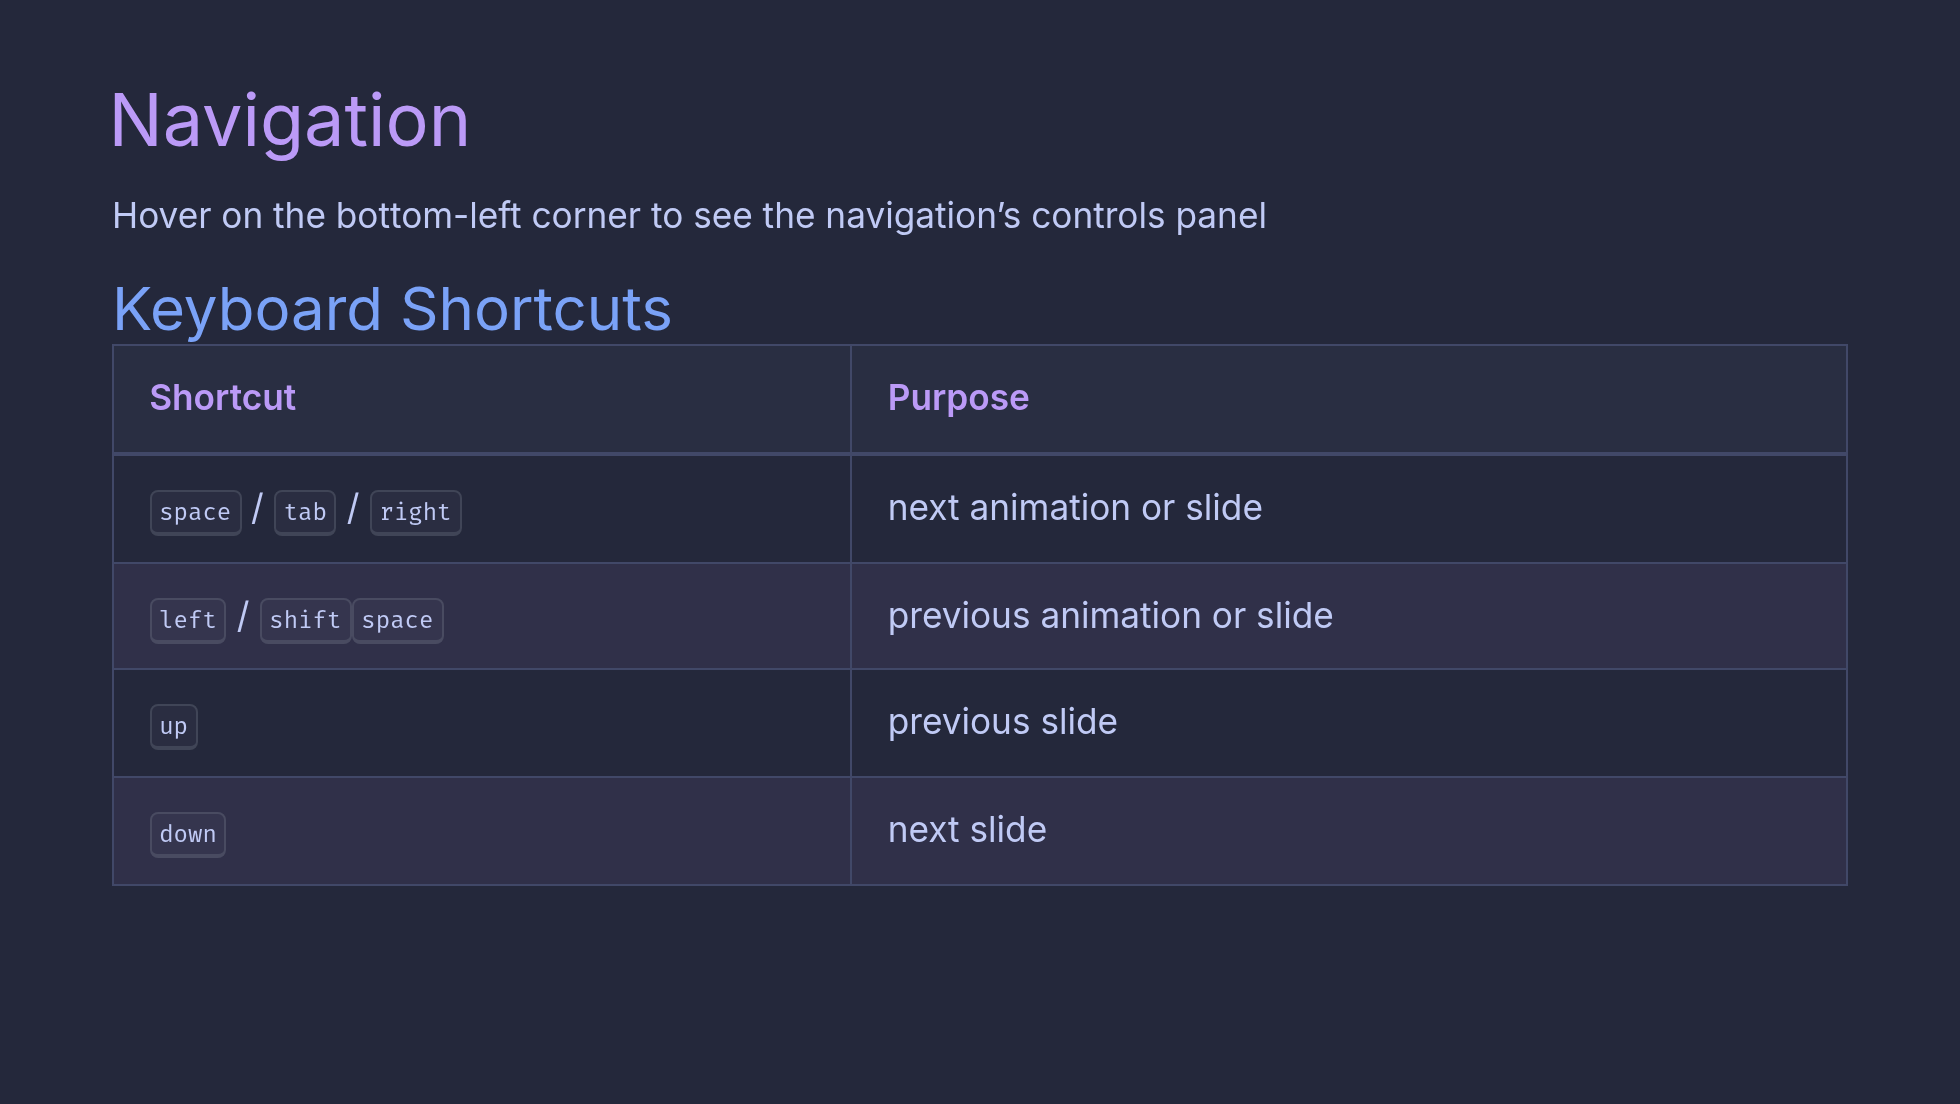
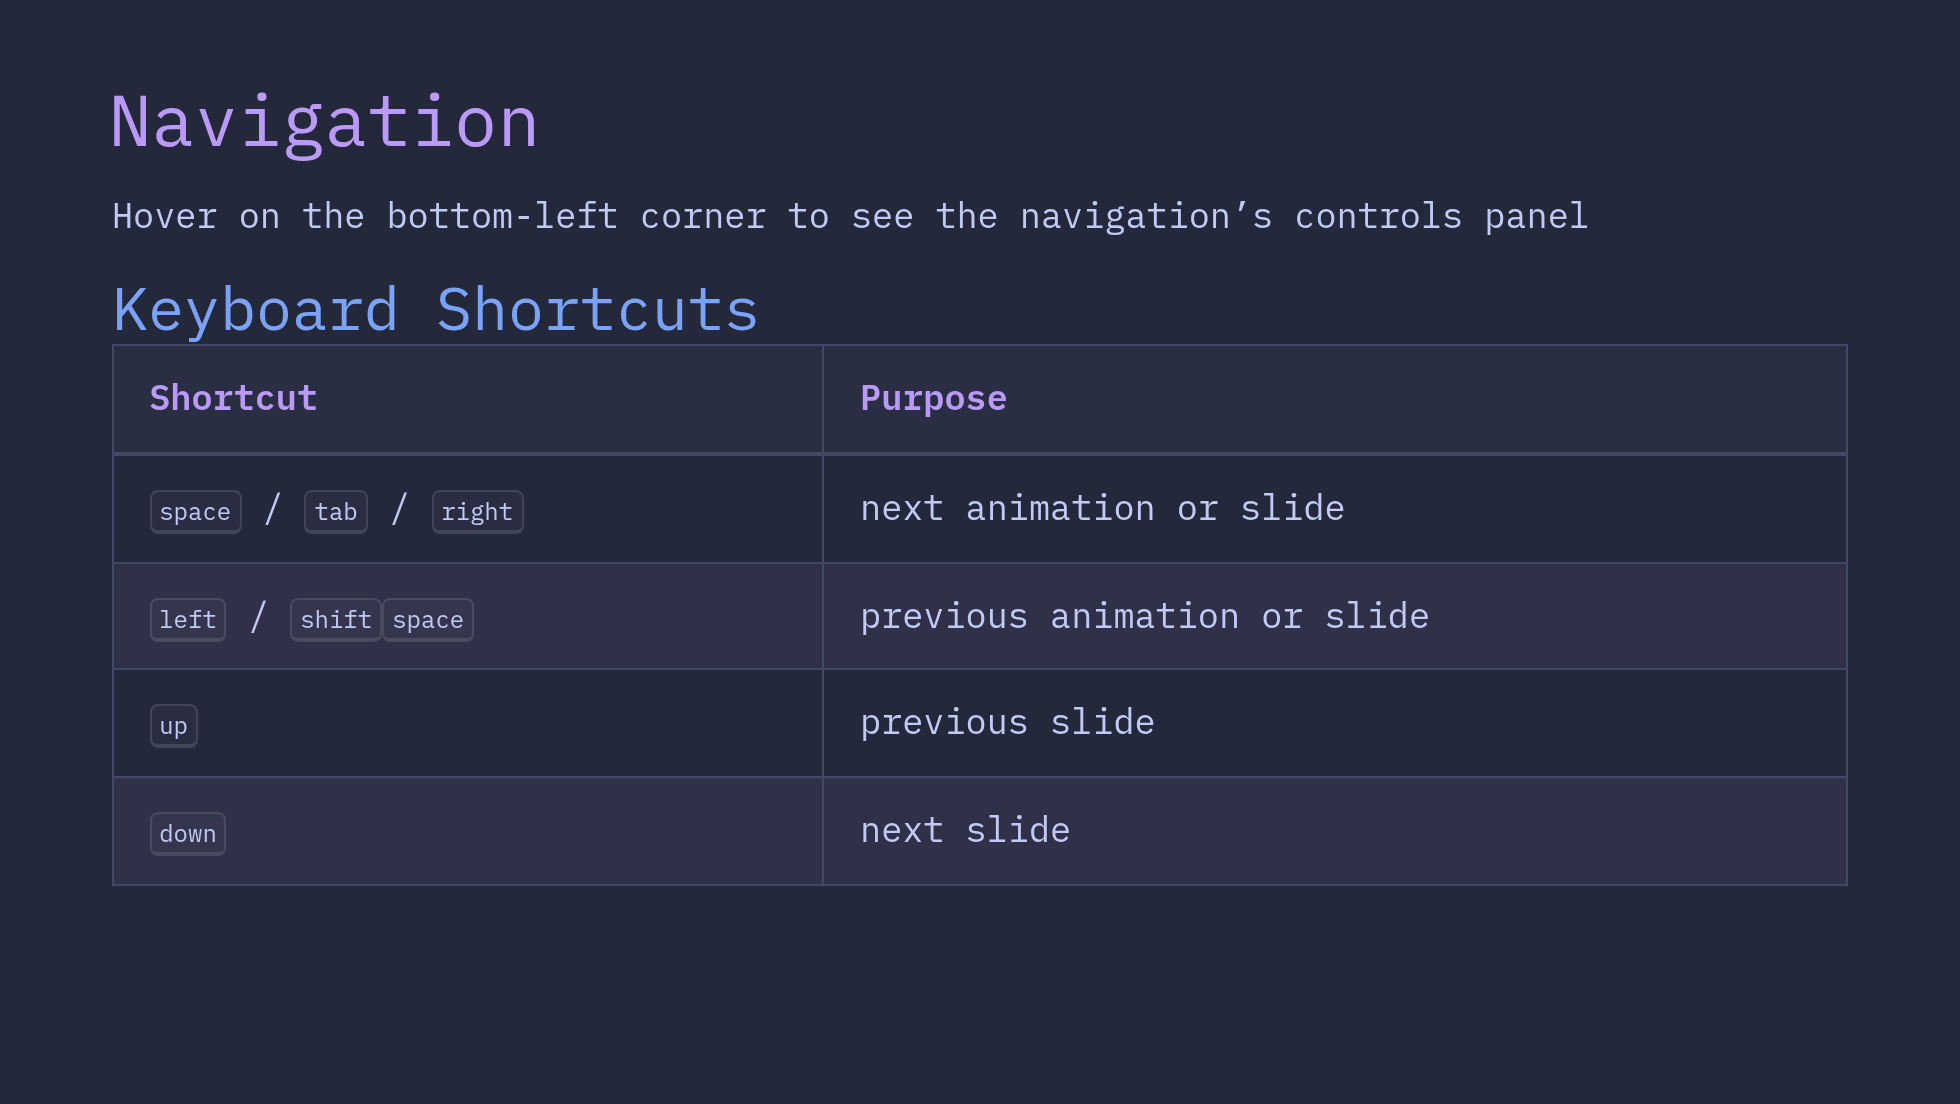
feat: default fonts to IBM Plex Mono, title-only cover, refresh screenshots

diff --git a/README.md b/README.md
@@ -51,10 +51,10 @@ Code blocks use the Shiki `tokyo-night` theme.
 
 ## Fonts
 
-Defaults (declared in `package.json` under `slidev.defaults.fonts`, loaded by Slidev from Google Fonts):
+Defaults (declared in `package.json` under `slidev.defaults.fonts`, loaded by Slidev from Google Fonts by family name):
 
-- Sans: [Inter](https://rsms.me/inter/), a clean, neutral UI face that lets the neon palette carry the style
-- Mono: [Fira Code](https://github.com/tonsky/FiraCode), with programming ligatures for code
+- Sans: [IBM Plex Mono](https://fonts.google.com/specimen/IBM+Plex+Mono)
+- Mono: [IBM Plex Mono](https://fonts.google.com/specimen/IBM+Plex+Mono)
 
 Override them in your own headmatter if you prefer, e.g. `fonts: { sans: 'IBM Plex Sans', mono: 'IBM Plex Mono' }`.
 

diff --git a/.changeset/ibm-plex-mono-fonts.md b/.changeset/ibm-plex-mono-fonts.md
@@ -1,0 +1,5 @@
+---
+"slidev-theme-tokyo-night-storm": patch
+---
+
+Default both sans and mono fonts to IBM Plex Mono (Google Fonts), replacing Inter and Fira Code. The cover is title-only with no photo, and the images slide uses the full-height `image-right` layout.

diff --git a/example.md b/example.md
@@ -6,8 +6,6 @@ class: text-center
 
 # Tokyo Night Storm
 
-A [Tokyo Night](https://github.com/enkia/tokyo-night-vscode-theme) inspired theme for [Slidev](https://sli.dev/)
-
 ---
 
 # What is Slidev?
